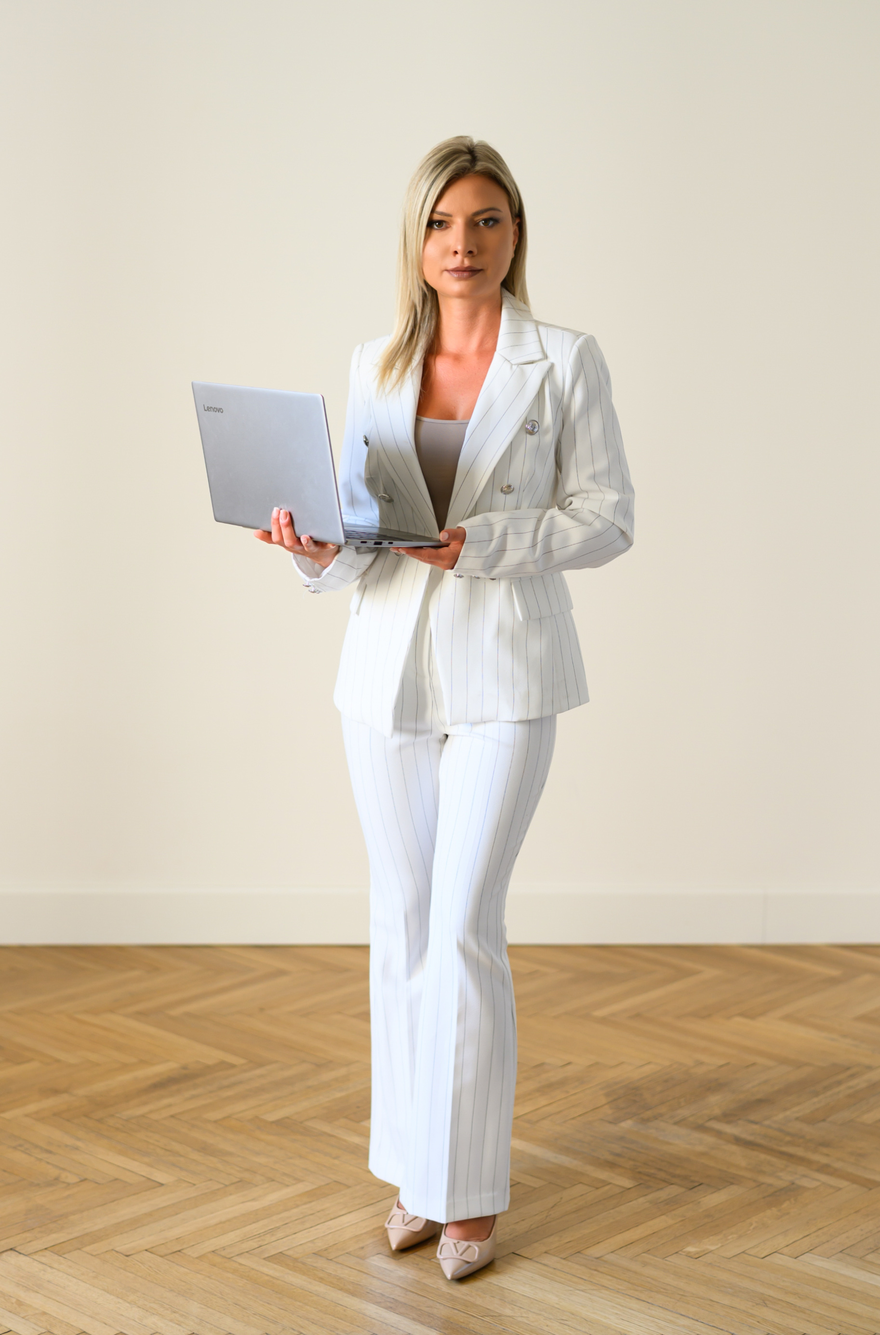
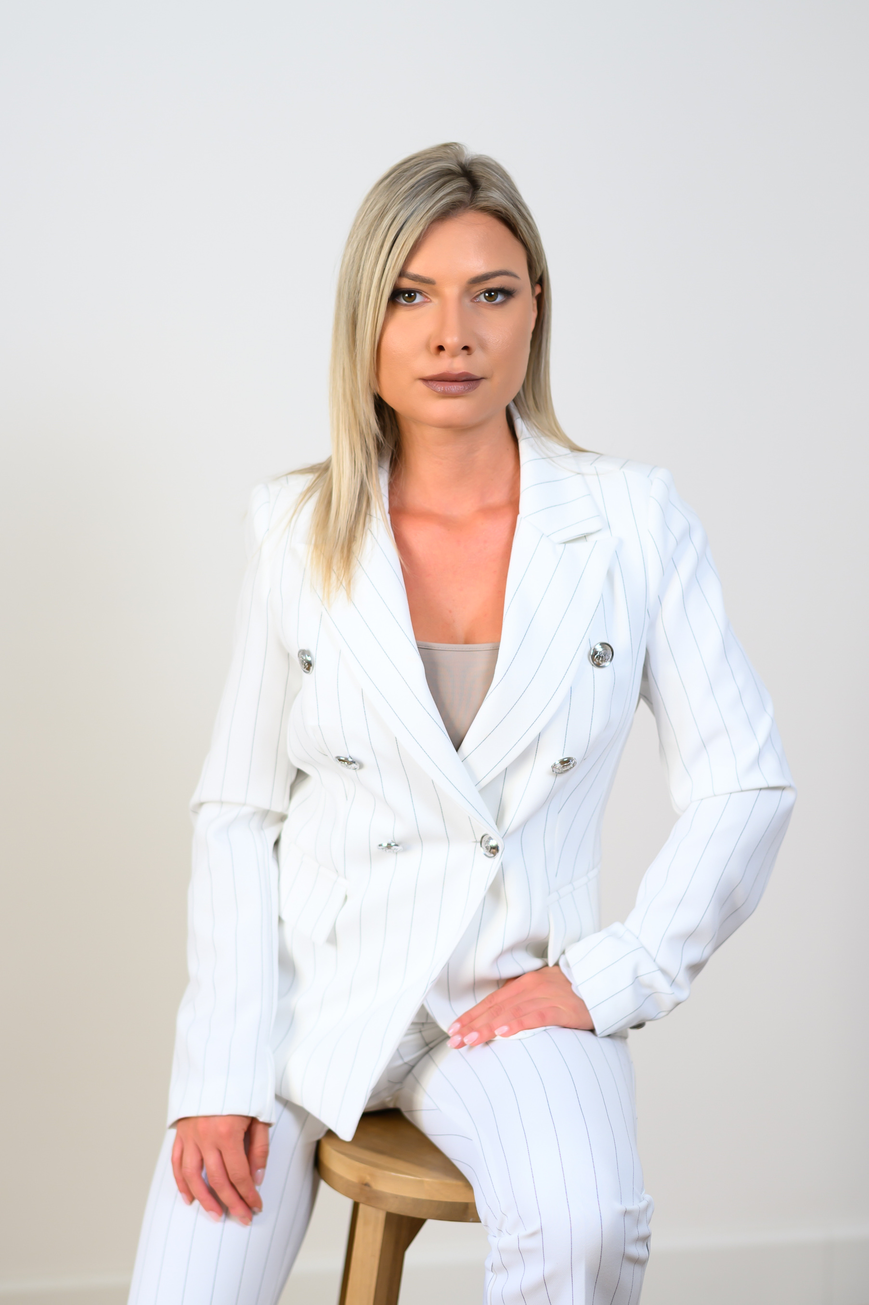
asde

diff --git a/o-meni.html b/o-meni.html
@@ -366,7 +366,9 @@
           >
             <div class="row position-relative z-index-1 pt-5-5">
               <div class="col">
-                <p
+                <div class="d-flex">
+                <div class="col-lg-8 o-meni-padding">
+ <p
                   class="text-4-5 appear-animation"
                   data-appear-animation="fadeInUpShorter"
                   data-appear-animation-delay="500"
@@ -414,6 +416,17 @@ coach I mentor.
 osnaže svoju lidersku poziciju, unaprede komunikaciju, razviju jasniju viziju i izgrade zdravu i održivu
 kulturu u svojim organizacijama.
                 </p>
+                </div>
+                <div class="col-lg-4">
+        <img
+                  src="img/teodora-omeni.jpg"
+                  class=" mw-100 w-auto appear-animation"
+                  alt=""
+                  data-appear-animation="fadeIn"
+                  data-appear-animation-delay="100"
+                />
+                </div>
+               </div>
                          <p
                   class="text-4-5 appear-animation"
                   data-appear-animation="fadeInUpShorter"

diff --git a/index.html b/index.html
@@ -416,7 +416,7 @@
                   </div>
                 </div>
               </div>
-              <div class="col-lg-6 d-flex justify-content-center pt-5">
+              <div class="col-lg-6 d-flex justify-content-center ">
                 <img
                   src="img/teodora-main.jpg"
                   class="img-fluid mw-100 w-auto appear-animation"

diff --git a/css/custom.css b/css/custom.css
@@ -538,3 +538,7 @@
 .line-height-30px {
   line-height: 30px;
 }
+
+.o-meni-padding {
+  padding-right: 20px !important;
+}
